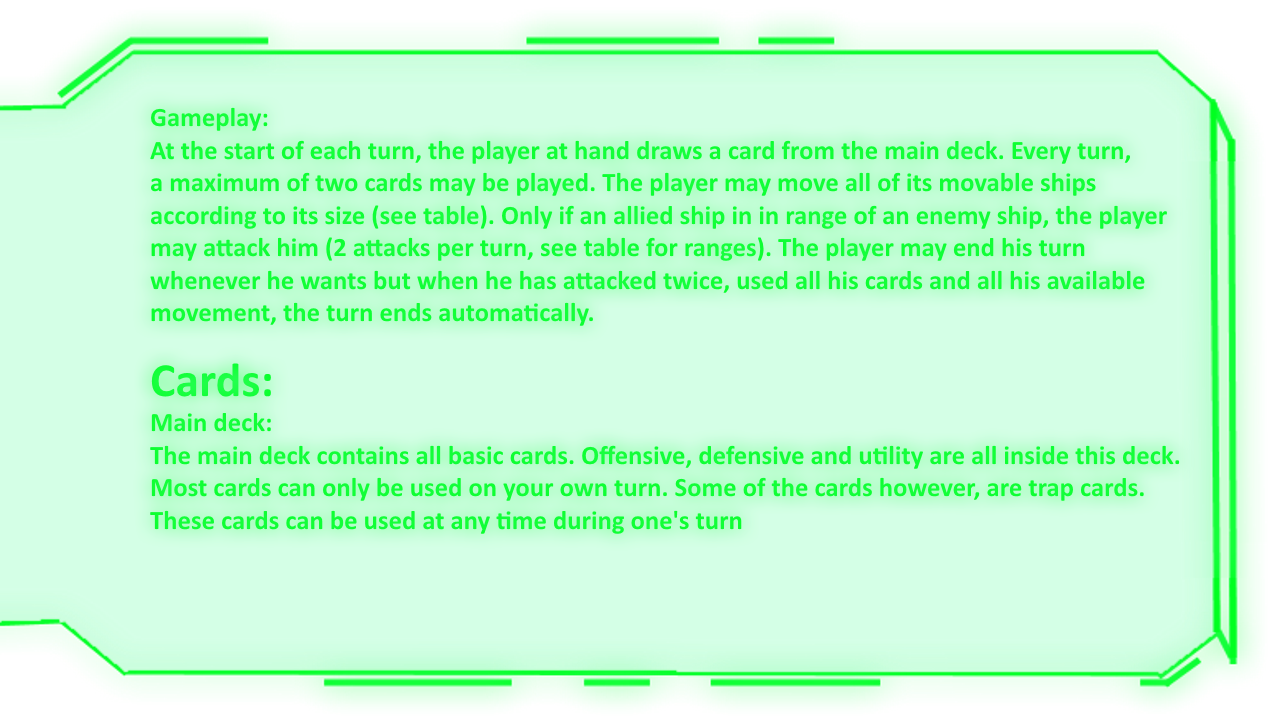
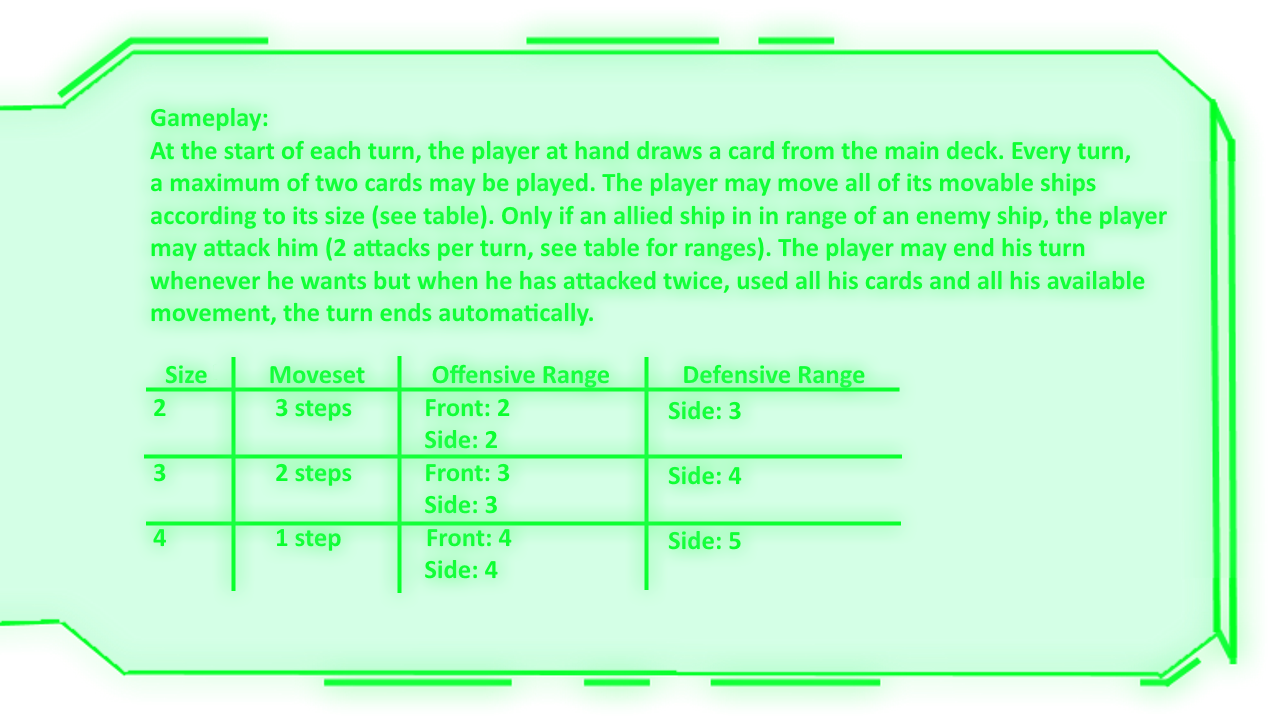
game rules

Changed region(s): [[0.0938, 0.4889, 0.9375, 0.825]]

diff --git a/main/main/main.py b/main/main/main.py
@@ -12,6 +12,9 @@ label1=pygame.image.load('button groen 1.png')
 label3=pygame.image.load('button groen 3.png')
 spelregels1=pygame.image.load('Spelregels 1.png')
 spelregels2=pygame.image.load('Spelregels 2.png')
+spelregels3=pygame.image.load('Spelregels 3.png')
+spelregels4=pygame.image.load('Spelregels 4.png')
+spelregels5=pygame.image.load('Spelregels 5.png')
 
 black=(0,0,0)
 white=(255,255,255)
@@ -152,10 +155,10 @@ def instructions_screen():
     while not process_events():
         # Clear Screen
         screen.blit(radar,[0,0])
-        
+        screen.blit(label3, [240,50])
         #TESTBUTTON
         button (screen,"Back",20,650,100,50,grey,bright_grey,0,0,20, program)
-        button (screen,"Game Rules",350,200,200,75,green,bright_green,5,1,30, instructions1, play_sound)
+        button (screen,"Game Rules",450,200,200,75,green,bright_green,5,1,30, instructions1, play_sound)
        
 
         #Flip the screen
@@ -197,8 +200,74 @@ def instructions2():
         screen.fill(black)
         screen.blit(spelregels2,[0,0])
 
-        button (screen,"Next",1160,650,100,50,grey,bright_grey,0,0,20)
+        button (screen,"Next",1160,650,100,50,grey,bright_grey,0,0,20,instructions3)
         button (screen,"Back",20,650,100,50,grey,bright_grey,0,0,20, instructions1)
+
+        #Flip the screen
+        pygame.display.flip()
+
+def instructions3():
+    width = 1280
+    height = 720
+    size = (width, height)
+
+    #start PyGame
+    pygame.init()
+
+    #set a resolution
+    screen = pygame.display.set_mode(size)
+
+    while not process_events():
+        # Clear Screen
+        screen.fill(black)
+        screen.blit(spelregels3,[0,0])
+
+        button (screen,"Next",1160,650,100,50,grey,bright_grey,0,0,20,instructions4)
+        button (screen,"Back",20,650,100,50,grey,bright_grey,0,0,20, instructions2)
+
+        #Flip the screen
+        pygame.display.flip()
+
+def instructions4():
+    width = 1280
+    height = 720
+    size = (width, height)
+
+    #start PyGame
+    pygame.init()
+
+    #set a resolution
+    screen = pygame.display.set_mode(size)
+
+    while not process_events():
+        # Clear Screen
+        screen.fill(black)
+        screen.blit(spelregels4,[0,0])
+
+        button (screen,"Next",1160,650,100,50,grey,bright_grey,0,0,20,instructions5)
+        button (screen,"Back",20,650,100,50,grey,bright_grey,0,0,20, instructions3)
+
+        #Flip the screen
+        pygame.display.flip()
+
+def instructions5():
+    width = 1280
+    height = 720
+    size = (width, height)
+
+    #start PyGame
+    pygame.init()
+
+    #set a resolution
+    screen = pygame.display.set_mode(size)
+
+    while not process_events():
+        # Clear Screen
+        screen.fill(black)
+        screen.blit(spelregels5,[0,0])
+
+        button (screen,"Exit",1160,650,100,50,grey,bright_grey,0,0,20, program)
+        button (screen,"Back",20,650,100,50,grey,bright_grey,0,0,20, instructions4)
 
         #Flip the screen
         pygame.display.flip()
